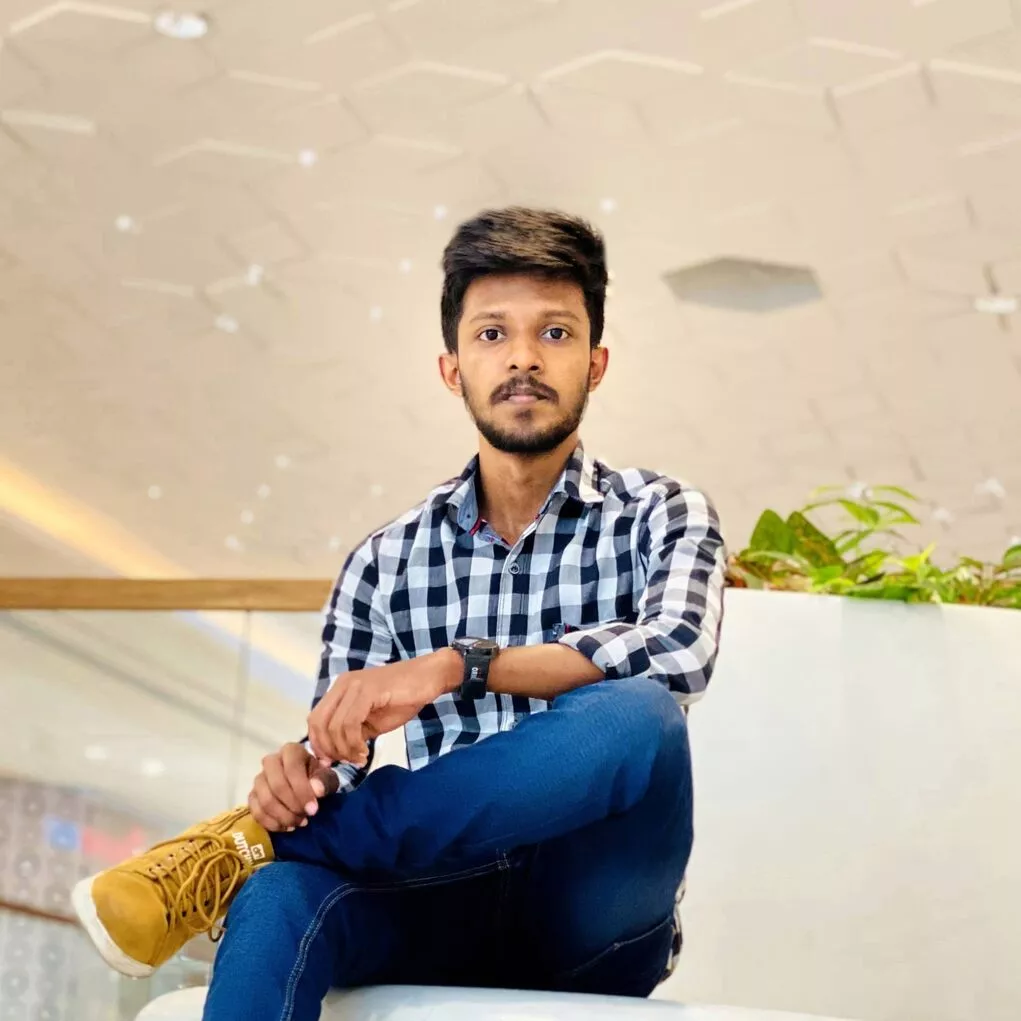
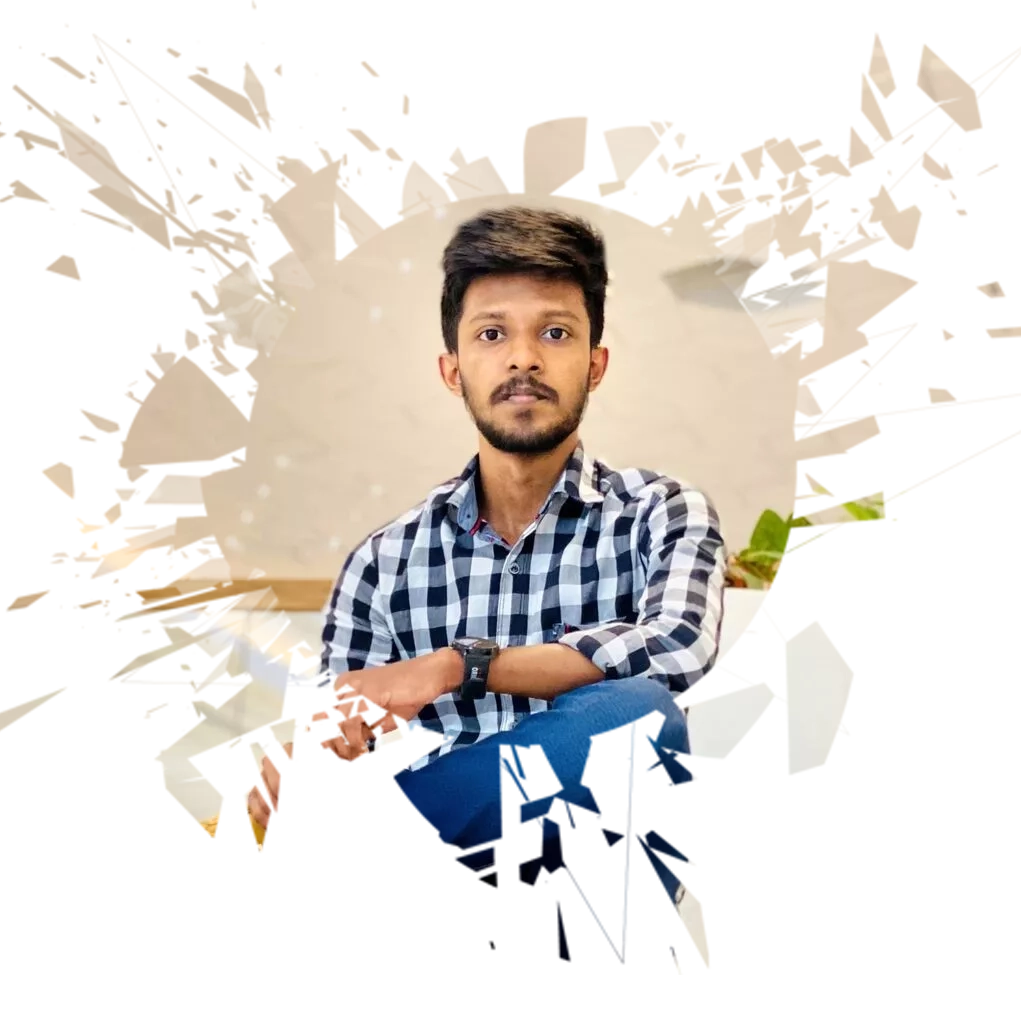
asdf

diff --git a/css/main.css b/css/main.css
@@ -530,12 +530,6 @@ h6 {
 #intro .img img {
   width: 100%;
   position: relative;
-  -webkit-mask: url(../img/clip.webp);
-  mask: url(../img/clip.webp);
-  -webkit-mask-repeat: no-repeat;
-  mask-repeat: no-repeat;
-  -webkit-mask-size: contain;
-  mask-size: contain;
   border-radius: 4px;
   cursor: grab;
 }
